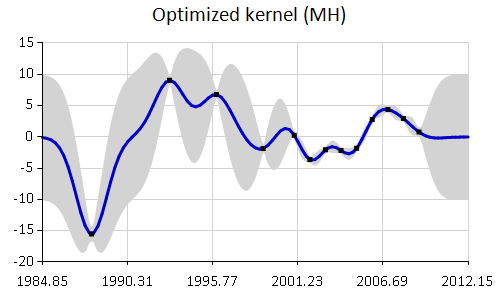
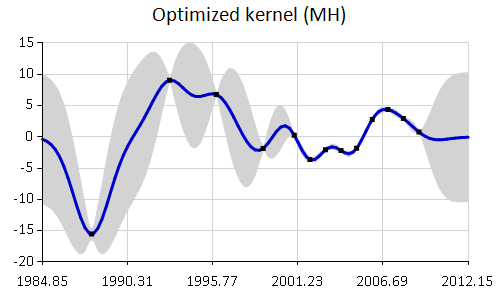
Update generated documentation for version 0.1.4

diff --git a/reference/ariadne-gaussianprocess-gaussianprocess-1.html b/reference/ariadne-gaussianprocess-gaussianprocess-1.html
@@ -97,10 +97,10 @@
       <tr>
         <td class="member-name">
 
-          <code onmouseout="hideTip(event, '26', 26)" onmouseover="showTip(event, '26', 26)">
+          <code onmouseout="hideTip(event, '25', 25)" onmouseover="showTip(event, '25', 25)">
             Covariance
           </code>
-          <div class="tip" id="26">
+          <div class="tip" id="25">
             <strong>Signature:</strong> Kernel&lt;&#39;T&gt;<br />
                       </div>
         </td>
@@ -115,10 +115,10 @@
       <tr>
         <td class="member-name">
 
-          <code onmouseout="hideTip(event, '28', 28)" onmouseover="showTip(event, '28', 28)">
+          <code onmouseout="hideTip(event, '26', 26)" onmouseover="showTip(event, '26', 26)">
             LogLikelihood(data)
           </code>
-          <div class="tip" id="28">
+          <div class="tip" id="26">
             <strong>Signature:</strong> data:seq&lt;Observation&lt;&#39;T&gt;&gt; -&gt; float&lt;MeasureOne&gt;<br />
                       </div>
         </td>
@@ -135,10 +135,10 @@ given a set of observed data</p>
       <tr>
         <td class="member-name">
 
-          <code onmouseout="hideTip(event, '29', 29)" onmouseover="showTip(event, '29', 29)">
+          <code onmouseout="hideTip(event, '27', 27)" onmouseover="showTip(event, '27', 27)">
             Mean
           </code>
-          <div class="tip" id="29">
+          <div class="tip" id="27">
             <strong>Signature:</strong> MeanFunction<br />
                       </div>
         </td>
@@ -153,10 +153,10 @@ given a set of observed data</p>
       <tr>
         <td class="member-name">
 
-          <code onmouseout="hideTip(event, '30', 30)" onmouseover="showTip(event, '30', 30)">
+          <code onmouseout="hideTip(event, '28', 28)" onmouseover="showTip(event, '28', 28)">
             NoiseVariance
           </code>
-          <div class="tip" id="30">
+          <div class="tip" id="28">
             <strong>Signature:</strong> float option<br />
                       </div>
         </td>
@@ -171,10 +171,10 @@ given a set of observed data</p>
       <tr>
         <td class="member-name">
 
-          <code onmouseout="hideTip(event, '31', 31)" onmouseover="showTip(event, '31', 31)">
+          <code onmouseout="hideTip(event, '29', 29)" onmouseover="showTip(event, '29', 29)">
             PosteriorGaussianProcess(...)
           </code>
-          <div class="tip" id="31">
+          <div class="tip" id="29">
             <strong>Signature:</strong> data:seq&lt;Observation&lt;&#39;T&gt;&gt; -&gt; (newLocations:&#39;T []) -&gt; Vector&lt;float&gt; * Matrix&lt;float&gt;<br />
                       </div>
         </td>
@@ -192,10 +192,10 @@ and a set of new time points without observed values.</p>
       <tr>
         <td class="member-name">
 
-          <code onmouseout="hideTip(event, '32', 32)" onmouseover="showTip(event, '32', 32)">
+          <code onmouseout="hideTip(event, '30', 30)" onmouseover="showTip(event, '30', 30)">
             Predict(data newLocations)
           </code>
-          <div class="tip" id="32">
+          <div class="tip" id="30">
             <strong>Signature:</strong> data:seq&lt;Observation&lt;&#39;T&gt;&gt; -&gt; (newLocations:&#39;T []) -&gt; float [] * float []<br />
                       </div>
         </td>
@@ -218,10 +218,10 @@ and a set of new time points without observed values.</p>
       <tr>
         <td class="member-name">
 
-          <code onmouseout="hideTip(event, '33', 33)" onmouseover="showTip(event, '33', 33)">
+          <code onmouseout="hideTip(event, '31', 31)" onmouseover="showTip(event, '31', 31)">
             PredictiveLogLikelihood(data x)
           </code>
-          <div class="tip" id="33">
+          <div class="tip" id="31">
             <strong>Signature:</strong> data:seq&lt;Observation&lt;&#39;T&gt;&gt; -&gt; x:Observation&lt;&#39;T&gt; -&gt; float<br />
                       </div>
         </td>

diff --git a/reference/ariadne-gaussianprocess.html b/reference/ariadne-gaussianprocess.html
@@ -92,10 +92,10 @@
       <tr>
         <td class="member-name">
 
-          <code onmouseout="hideTip(event, '10', 10)" onmouseover="showTip(event, '10', 10)">
+          <code onmouseout="hideTip(event, '9', 9)" onmouseover="showTip(event, '9', 9)">
             addObservationNoise noiseVariance matrix
           </code>
-          <div class="tip" id="10">
+          <div class="tip" id="9">
             <strong>Signature:</strong> noiseVariance:float option -&gt; matrix:Matrix&lt;float&gt; -&gt; Matrix&lt;float&gt;<br />
                       </div>
         </td>
@@ -111,10 +111,10 @@
       <tr>
         <td class="member-name">
 
-          <code onmouseout="hideTip(event, '11', 11)" onmouseover="showTip(event, '11', 11)">
+          <code onmouseout="hideTip(event, '10', 10)" onmouseover="showTip(event, '10', 10)">
             covarianceMatrix kernel input1 input2
           </code>
-          <div class="tip" id="11">
+          <div class="tip" id="10">
             <strong>Signature:</strong> kernel:Kernel&lt;&#39;T&gt; -&gt; input1:&#39;T [] -&gt; input2:&#39;T [] -&gt; Matrix&lt;float&gt;<br />
                           <strong>Type parameters:</strong> 'T          </div>
         </td>
@@ -131,10 +131,10 @@ a specified covariance function (kernel)</p>
       <tr>
         <td class="member-name">
 
-          <code onmouseout="hideTip(event, '12', 12)" onmouseover="showTip(event, '12', 12)">
+          <code onmouseout="hideTip(event, '11', 11)" onmouseover="showTip(event, '11', 11)">
             mvNormalLoglik (...)
           </code>
-          <div class="tip" id="12">
+          <div class="tip" id="11">
             <strong>Signature:</strong> meanVector:Vector&lt;float&gt; -&gt; covarianceMatrix:Matrix&lt;float&gt; -&gt; x:Vector&lt;float&gt; -&gt; float<br />
                       </div>
         </td>
@@ -150,10 +150,10 @@ a specified covariance function (kernel)</p>
       <tr>
         <td class="member-name">
 
-          <code onmouseout="hideTip(event, '13', 13)" onmouseover="showTip(event, '13', 13)">
+          <code onmouseout="hideTip(event, '12', 12)" onmouseover="showTip(event, '12', 12)">
             plot data gp
           </code>
-          <div class="tip" id="13">
+          <div class="tip" id="12">
             <strong>Signature:</strong> data:seq&lt;Observation&lt;float&gt;&gt; -&gt; gp:GaussianProcess&lt;float&gt; -&gt; GenericChart<br />
                       </div>
         </td>
@@ -170,10 +170,10 @@ Shows a region of +/- 1 standard deviations from the posterior mean.</p>
       <tr>
         <td class="member-name">
 
-          <code onmouseout="hideTip(event, '14', 14)" onmouseover="showTip(event, '14', 14)">
+          <code onmouseout="hideTip(event, '13', 13)" onmouseover="showTip(event, '13', 13)">
             plotRange (timeMin, timeMax) data gp
           </code>
-          <div class="tip" id="14">
+          <div class="tip" id="13">
             <strong>Signature:</strong> (timeMin:float&lt;MeasureOne&gt; * timeMax:float&lt;MeasureOne&gt;) -&gt; data:seq&lt;Observation&lt;float&gt;&gt; -&gt; gp:GaussianProcess&lt;float&gt; -&gt; GenericChart<br />
                       </div>
         </td>

diff --git a/reference/ariadne-kernels-squaredexp.html b/reference/ariadne-kernels-squaredexp.html
@@ -86,10 +86,10 @@ also known as the Gaussian kernel or RBF kernel</p>
       <tr>
         <td class="member-name">
 
-          <code onmouseout="hideTip(event, '5', 5)" onmouseover="showTip(event, '5', 5)">
+          <code onmouseout="hideTip(event, '1', 1)" onmouseover="showTip(event, '1', 1)">
             fullGradient data parameters
           </code>
-          <div class="tip" id="5">
+          <div class="tip" id="1">
             <strong>Signature:</strong> data:seq&lt;Observation&lt;float&gt;&gt; -&gt; parameters:float [] -&gt; float&lt;MeasureOne&gt; []<br />
                       </div>
         </td>
@@ -104,10 +104,10 @@ also known as the Gaussian kernel or RBF kernel</p>
       <tr>
         <td class="member-name">
 
-          <code onmouseout="hideTip(event, '6', 6)" onmouseover="showTip(event, '6', 6)">
+          <code onmouseout="hideTip(event, '2', 2)" onmouseover="showTip(event, '2', 2)">
             ofParameters parameters
           </code>
-          <div class="tip" id="6">
+          <div class="tip" id="2">
             <strong>Signature:</strong> parameters:seq&lt;float&gt; -&gt; SquaredExp<br />
                       </div>
         </td>
@@ -122,10 +122,10 @@ also known as the Gaussian kernel or RBF kernel</p>
       <tr>
         <td class="member-name">
 
-          <code onmouseout="hideTip(event, '7', 7)" onmouseover="showTip(event, '7', 7)">
+          <code onmouseout="hideTip(event, '3', 3)" onmouseover="showTip(event, '3', 3)">
             randomWalkProposal density location
           </code>
-          <div class="tip" id="7">
+          <div class="tip" id="3">
             <strong>Signature:</strong> density:Normal [] -&gt; location:float [] -&gt; float []<br />
                       </div>
         </td>
@@ -140,10 +140,10 @@ also known as the Gaussian kernel or RBF kernel</p>
       <tr>
         <td class="member-name">
 
-          <code onmouseout="hideTip(event, '8', 8)" onmouseover="showTip(event, '8', 8)">
+          <code onmouseout="hideTip(event, '4', 4)" onmouseover="showTip(event, '4', 4)">
             transitionProbability (...)
           </code>
-          <div class="tip" id="8">
+          <div class="tip" id="4">
             <strong>Signature:</strong> density:Normal [] -&gt; oldLocation:float [] -&gt; newLocation:float [] -&gt; float<br />
                       </div>
         </td>

diff --git a/reference/ariadne-optimization.html b/reference/ariadne-optimization.html
@@ -99,10 +99,10 @@
       <tr>
         <td class="member-name">
 
-          <code onmouseout="hideTip(event, '3', 3)" onmouseover="showTip(event, '3', 3)">
+          <code onmouseout="hideTip(event, '7', 7)" onmouseover="showTip(event, '7', 7)">
             gradientDescent (...)
           </code>
-          <div class="tip" id="3">
+          <div class="tip" id="7">
             <strong>Signature:</strong> gradientFun:(Parameters -&gt; Parameters) -&gt; settings:Settings -&gt; initialLocation:Parameters -&gt; float []<br />
                       </div>
         </td>
@@ -119,10 +119,10 @@ descent</p>
       <tr>
         <td class="member-name">
 
-          <code onmouseout="hideTip(event, '4', 4)" onmouseover="showTip(event, '4', 4)">
+          <code onmouseout="hideTip(event, '8', 8)" onmouseover="showTip(event, '8', 8)">
             sampleMetropolisHastings (...)
           </code>
-          <div class="tip" id="4">
+          <div class="tip" id="8">
             <strong>Signature:</strong> logLikelihood:(Parameters -&gt; float) -&gt; transitionKernel:(Parameters -&gt; Parameters -&gt; float) -&gt; proposalSampler:(Parameters -&gt; Parameters) -&gt; settings:Settings -&gt; initialLocation:Parameters -&gt; float []<br />
                       </div>
         </td>

diff --git a/optimization.html b/optimization.html
@@ -193,7 +193,7 @@ algorithm with symmetric proposal distribution, i.e. basic Metropolis algorithm.
 <p>The Metropolis sampler takes a specified total number of samples, 50 by default, and 
 returns the posterior mean estimate for each hyperparameter.</p>
 
-<pre><code>Squared exponential, l = 0.98, σ² = 24.77, σ²_{noise} = 0.02
+<pre><code>Squared exponential, l = 1.15, σ² = 26.65, σ²_{noise} = 0.01
 </code></pre>
 
 <p>We can compare difference in fit of the randomly sampled covariance parameters <code>kernel</code>
@@ -223,7 +223,7 @@ time complexity.</p>
 </table>
 
 <pre><code>Initial log likelihood: -231.973587 
-Final log likelihood: -39.120474
+Final log likelihood: -37.994396
 
 </code></pre>
 

diff --git a/reference/ariadne-optimization-squaredexp.html b/reference/ariadne-optimization-squaredexp.html
@@ -56,10 +56,10 @@
       <tr>
         <td class="member-name">
 
-          <code onmouseout="hideTip(event, '1', 1)" onmouseover="showTip(event, '1', 1)">
+          <code onmouseout="hideTip(event, '5', 5)" onmouseover="showTip(event, '5', 5)">
             optimizeMetropolis (...)
           </code>
-          <div class="tip" id="1">
+          <div class="tip" id="5">
             <strong>Signature:</strong> data:seq&lt;Observation&lt;float&gt;&gt; -&gt; settings:Settings -&gt; prior:Prior -&gt; initialKernel:SquaredExp -&gt; SquaredExp<br />
                       </div>
         </td>

diff --git a/reference/ariadne-kernels-squaredexp-squaredexp.html b/reference/ariadne-kernels-squaredexp-squaredexp.html
@@ -60,10 +60,10 @@ also known as the Gaussian kernel or RBF kernel</p>
       <tr>
         <td class="member-name">
 
-          <code onmouseout="hideTip(event, '27', 27)" onmouseover="showTip(event, '27', 27)">
+          <code onmouseout="hideTip(event, '33', 33)" onmouseover="showTip(event, '33', 33)">
             new(...)
           </code>
-          <div class="tip" id="27">
+          <div class="tip" id="33">
             <strong>Signature:</strong> (lengthscale:float * signalVariance:float * noiseVariance:float) -&gt; SquaredExp<br />
                       </div>
         </td>

diff --git a/reference/ariadne-kernels-squaredexp-prior.html b/reference/ariadne-kernels-squaredexp-prior.html
@@ -53,10 +53,10 @@
       <tr>
         <td class="member-name">
 
-          <code onmouseout="hideTip(event, '25', 25)" onmouseover="showTip(event, '25', 25)">
+          <code onmouseout="hideTip(event, '32', 32)" onmouseover="showTip(event, '32', 32)">
             new(...)
           </code>
-          <div class="tip" id="25">
+          <div class="tip" id="32">
             <strong>Signature:</strong> (lengthscalePrior:LogNormal * signalVariancePrior:LogNormal * noiseVariancePrior:LogNormal) -&gt; Prior<br />
                       </div>
         </td>

diff --git a/reference/ariadne-optimization-gradientdescent.html b/reference/ariadne-optimization-gradientdescent.html
@@ -73,10 +73,10 @@
       <tr>
         <td class="member-name">
 
-          <code onmouseout="hideTip(event, '9', 9)" onmouseover="showTip(event, '9', 9)">
+          <code onmouseout="hideTip(event, '14', 14)" onmouseover="showTip(event, '14', 14)">
             defaultSettings 
           </code>
-          <div class="tip" id="9">
+          <div class="tip" id="14">
             <strong>Signature:</strong> Settings<br />
                       </div>
         </td>

diff --git a/reference/ariadne-optimization-metropolishastings.html b/reference/ariadne-optimization-metropolishastings.html
@@ -73,10 +73,10 @@
       <tr>
         <td class="member-name">
 
-          <code onmouseout="hideTip(event, '2', 2)" onmouseover="showTip(event, '2', 2)">
+          <code onmouseout="hideTip(event, '6', 6)" onmouseover="showTip(event, '6', 6)">
             defaultSettings 
           </code>
-          <div class="tip" id="2">
+          <div class="tip" id="6">
             <strong>Signature:</strong> Settings<br />
                       </div>
         </td>
